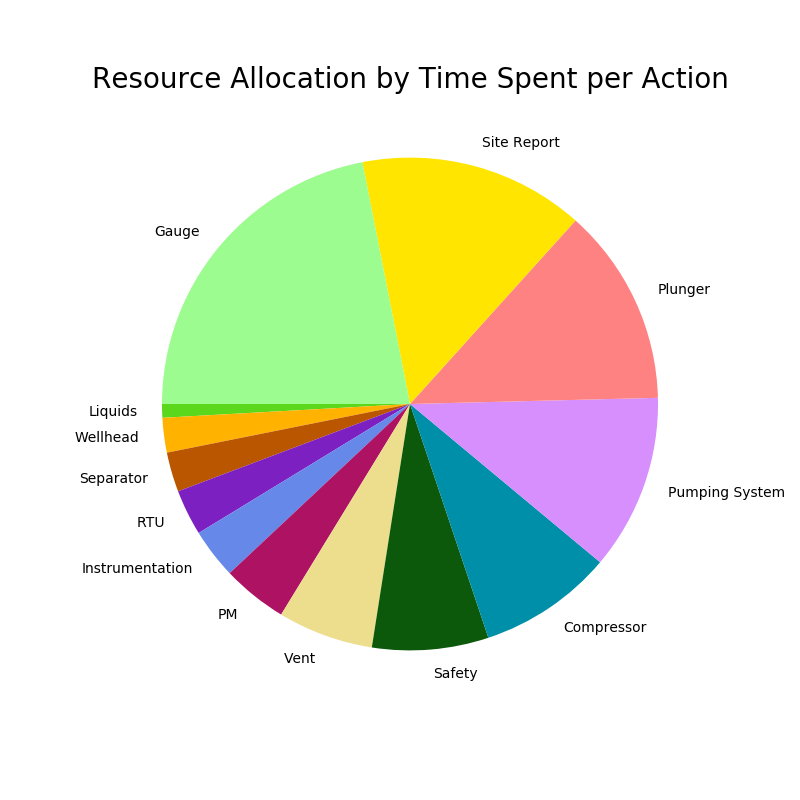
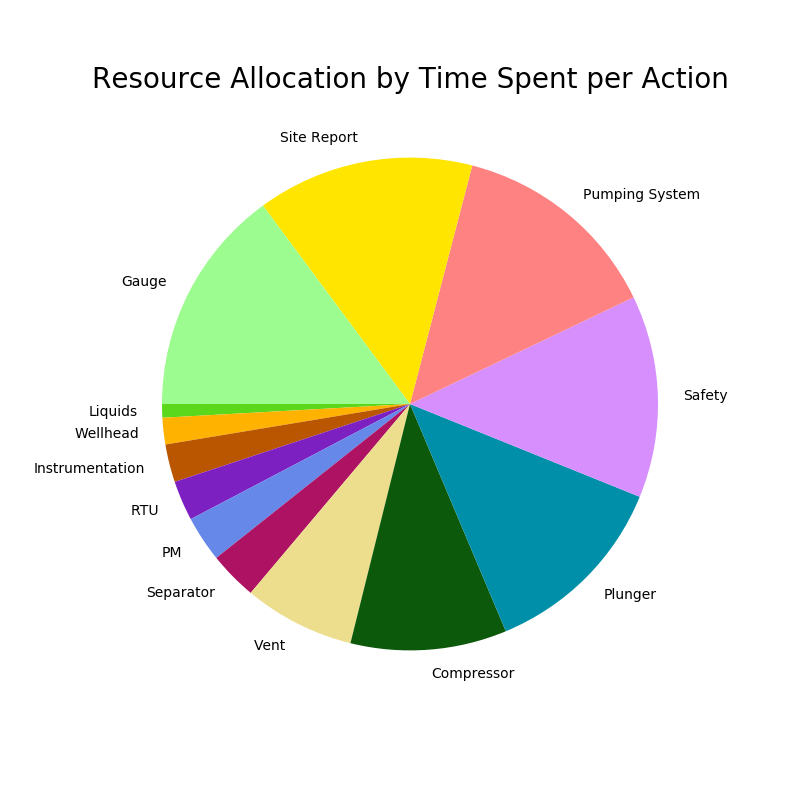
updating pies with imputed data from most recent time chunk

diff --git a/analyze.py b/analyze.py
@@ -852,6 +852,8 @@ def pie(df):
 					  (df['Action Type - No count'] != 'rodPumpSpeedChange') &
 					  (df['Action Type - No count'] != 'warmBootRTU'), :]
 
+	df_short = impute(df_short)
+
 	hours_df = df_short.groupby('Action Type - No count', as_index=False).sum()
 	hours_df.sort_values('agg_dur', inplace=True)
 
@@ -863,7 +865,15 @@ def pie(df):
 			startangle=180)
 
 	plt.title('Resource Allocation by Time Spent per Action', fontsize=20)
-	plt.savefig('figures/pie.png')
+	plt.savefig('figures/pie2.png')
+
+def impute(df):
+	for action in df['Action Type - No count'].unique():
+		avg_time = df.loc[(df['Action Type - No count'] == action) &
+						  (df['agg_dur'].notnull()), 'agg_dur'].mean()
+		df.loc[(df['Action Type - No count'] == action) &
+			   (df['agg_dur'].isnull()), 'agg_dur'] = avg_time
+	return df
 
 
 if __name__ == '__main__':
@@ -871,13 +881,18 @@ if __name__ == '__main__':
 	# action_df.to_csv('data/comment_action.csv')
 	a_df = pd.read_csv('data/comment_action.csv', encoding='ISO-8859-1')
 	hour_df = pd.read_csv('data/ws_hours.csv')
-	wh_df = pd.merge(a_df, hour_df, left_on='_id', right_on='id')
+	left_df = pd.merge(a_df, hour_df, left_on='_id', right_on='id', how='left')
+	wh_df = left_df[left_df['agg_dur'].notnull()]
 	# stacked_actions(wh_df, plot_type='count')
 	# stacked_actions(wh_df, plot_type='hours')
 	# venting(wh_df.loc[(wh_df['BusinessUnit'] == 'North') &
 	# 				  (wh_df['Action Type - No count'] == 'Vent'),
 	# 				  ['Action Date', 'agg_dur']])
-	# pie(wh_df[['Action Type - No count', 'Action Type 1', 'CommentAction', 'agg_dur']])
+	left_df['Action Date'] = pd.to_datetime(left_df['Action Date'])
+	pie(left_df.loc[(left_df['Action Date'] >= '2017-12-01') &
+				  	(left_df['Action Date'] < '2018-05-01'),
+				  	['Action Type - No count', 'Action Type 1',
+					 'CommentAction', 'agg_dur']])
 
 	# safety_plot(wh_df)
 
